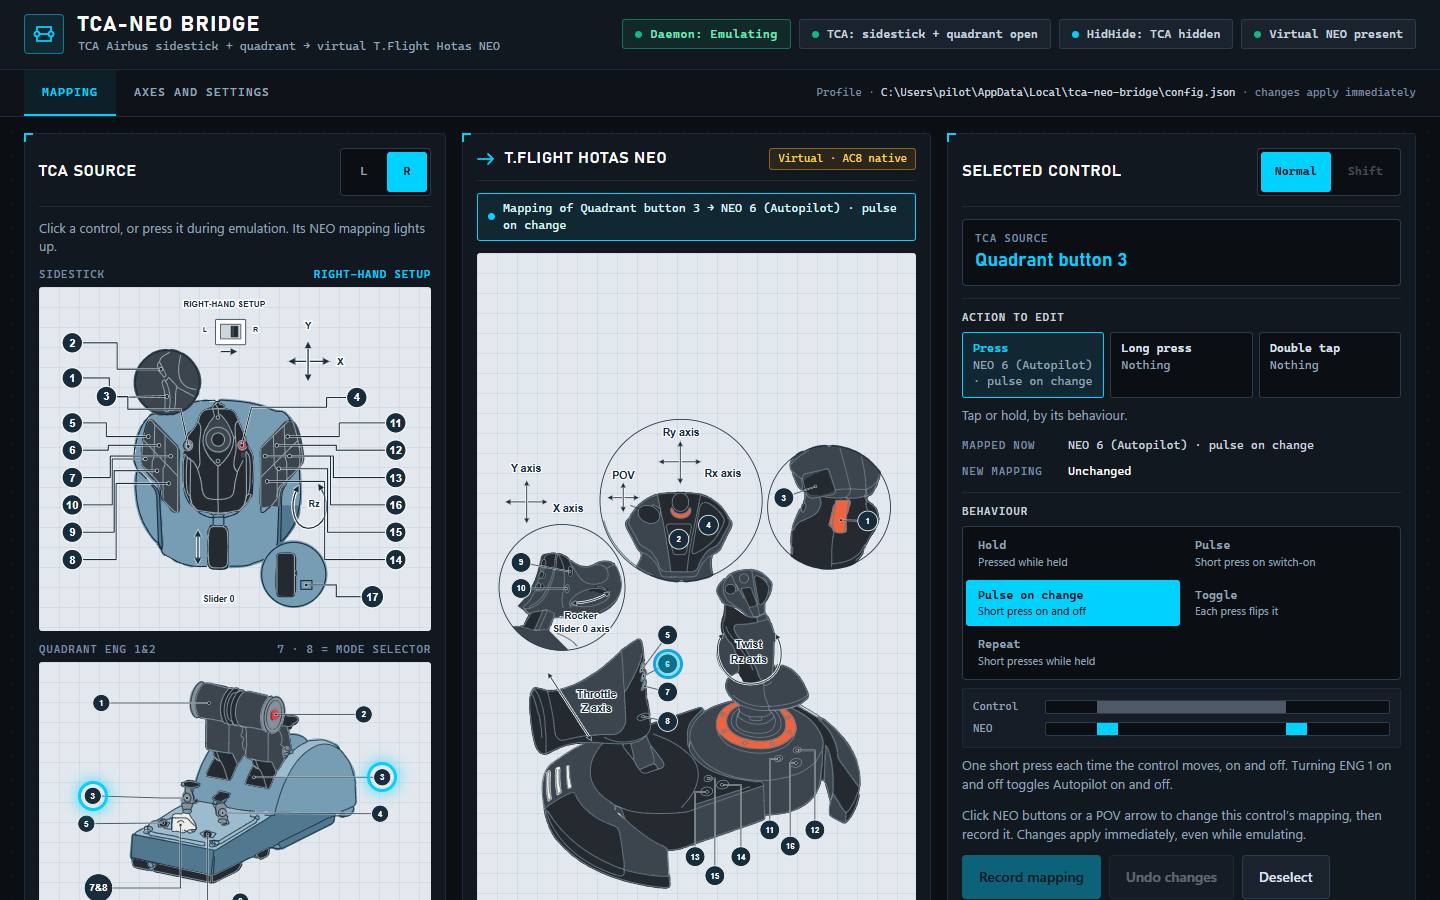
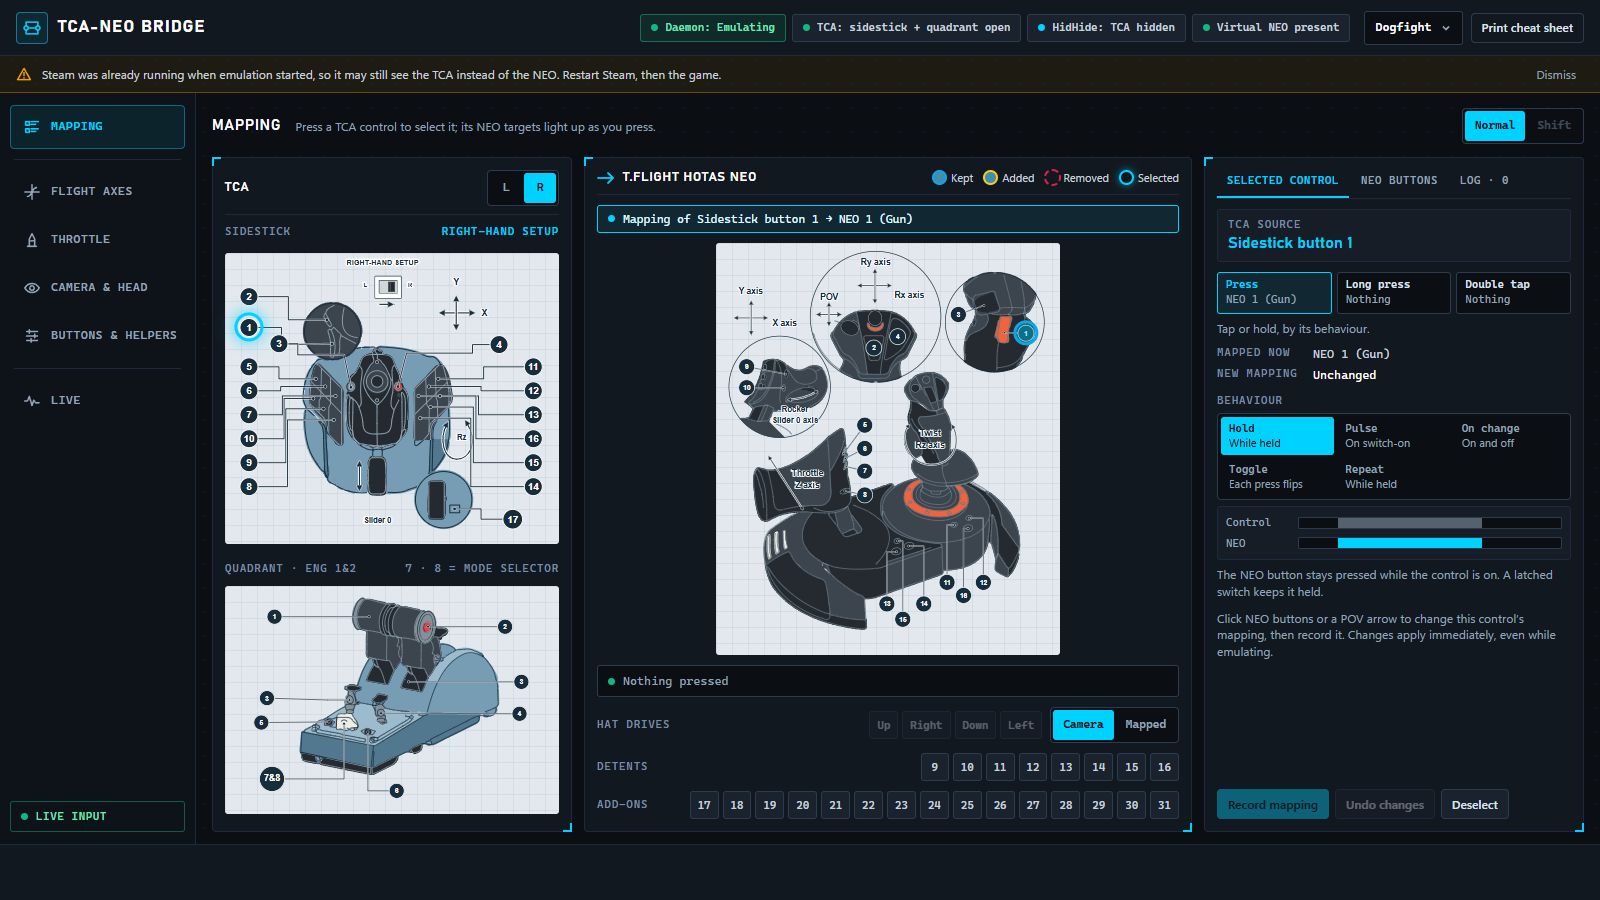
docs(readme): Describe the redesigned configuration page
Replace the tab descriptions with the rail pages and live previews,
and refresh the mapping, settings and live screenshots.

diff --git a/README.md b/README.md
@@ -65,54 +65,60 @@ The icon's badge shows the emulation status: a gray hollow circle when idle, a g
 | --- | --- |
 | Start emulation / Stop emulation | Hide the TCA devices and create the virtual NEO, or undo both. |
 | Configure… | Opens the configuration page in your browser (local only). Double-clicking the icon does the same. |
-| Pause input / Resume input | While emulating, releases every control and sends a neutral NEO until resumed. The tooltip shows *input paused*. A TCA button combo can do the same (see *Axes and settings*). |
+| Pause input / Resume input | While emulating, releases every control and sends a neutral NEO until resumed. The tooltip shows *input paused*. A TCA button combo can do the same (see *Buttons & helpers*). |
 | Profile ▸ | Appears once a profile is saved under a name. Choosing one makes it the active profile, even mid-flight; a balloon confirms it. The active one is checked. |
 | Install driver… / Reinstall driver… | Installs the driver, or replaces it with a freshly signed copy. Available while not emulating. |
 | Quit | Stops emulation and exits. |
 
-### Mapping tab
+### The configuration page
 
-![Mapping tab: quadrant button 3 (ENG 1) selected, its Autopilot mapping set to pulse on change](docs/images/mapping.png)
+The page fits one desktop window (1280 × 800 and up) without scrolling. The header shows the daemon status and, while emulating, whether the TCA is open, whether HidHide hides it and whether the virtual NEO exists, next to the **Profile** menu and **Print cheat sheet**. A rail on the left switches between six pages: **Mapping**, **Flight axes**, **Throttle**, **Camera & head**, **Buttons & helpers** and **Live**. On the four settings pages, a bar at the bottom holds **Try in game**, **Discard**, **Reset to defaults** and **Save settings**.
 
-The header shows the daemon status and, while emulating, whether the TCA is open, whether HidHide hides it and whether the virtual NEO exists. The left panel shows the TCA sidestick (switch **L / R** for a left- or right-hand setup) and quadrant, the middle one a T.Flight Hotas NEO with its numbered buttons and POV hat. Below them, a table lists NEO buttons 1–15 with their ACE COMBAT 8 actions and the TCA controls that feed each one.
+**Every preview is live.** While emulating, each page follows what you do on the TCA straight away, through your unsaved settings: the curve dot and meters follow the stick, the throttle needle the lever, the camera graph your hat hold, and the helper states and press timeline your buttons. Test controls appear only when emulation is stopped (*Start emulation to see your device*). The rail shows **Live input** or **Idle**.
+
+### Mapping
+
+![Mapping page: sidestick button 1 selected, its press mapped to NEO 1 (Gun)](docs/images/mapping.png)
+
+The left panel shows the TCA sidestick (switch **L / R** for a left- or right-hand setup) and quadrant, the middle one a T.Flight Hotas NEO with its numbered buttons and POV hat. The right panel has three tabs: **Selected control**, **NEO buttons** (NEO buttons 1–15 with their ACE COMBAT 8 actions and the TCA controls that feed each one, and the NEO axes) and **Log**.
 
 - **Click a TCA control,** or press it while emulating. Its current NEO targets light up.
 - **Click NEO buttons or POV arrows** to build its new mapping. Blue ring means kept, yellow ring means added, red dashed ring means removed. Then choose **Record mapping**. Changes apply immediately, even while emulating.
-- **With nothing selected,** clicking a NEO control or a row of the NEO button table highlights every TCA control that feeds it.
+- **With nothing selected,** clicking a NEO control or a row of the NEO buttons table highlights every TCA control that feeds it.
 - **Behaviour** sets how the selected control drives its NEO targets: **Hold** (pressed while held), **Pulse** (a short press when it switches on), **Pulse on change** (a short press each time it moves, on and off), **Toggle** (each press flips it) or **Repeat** (short presses again and again while held). A small timeline shows what the game receives. It is recorded with the mapping.
 - **Action to edit** picks what the NEO clicks change: the **Press**, a **Long press** (held for the long-press time: its targets are held instead of the press) or a **Double tap** (two taps within the double-tap window). Each tile shows its current mapping. With a long press or double tap set, a tap is sent as a short press once the control is released and the double-tap window has passed.
-- **Normal / Shift** switches the layer being mapped once a shift control is set (see *Axes and settings*). While the shift control is held, controls with a shift-layer mapping send it instead; the others keep their normal mapping.
-- **Under *Other TCA inputs*,** set the **sidestick hat** to drive either the **Camera** (the NEO mini-stick, the default) or **Mapped controls**. In Mapped mode, its four directions can be mapped like buttons, and the camera gets no input.
-- **Recorded corrections** keeps a log of every change you record.
+- **Normal / Shift** switches the layer being mapped once a shift control is set (see *Buttons & helpers*). While the shift control is held, controls with a shift-layer mapping send it instead; the others keep their normal mapping.
+- **Hat drives** sets the **sidestick hat** to drive either the **Camera** (the NEO mini-stick, the default) or **Mapped** controls. In Mapped mode, its four directions can be mapped like buttons, and the camera gets no input. The quadrant's detent states (9–16) and add-on inputs (17–31) sit below it.
+- **Log** keeps a record of every change you record.
 
-### Axes and settings tab
+### Settings pages
 
-![Axes and settings tab: the roll response curve with live stick input, and the throttle in Detents mode](docs/images/settings.png)
+![Flight axes page: the roll response curve following the live stick, with every axis raw and sent](docs/images/settings.png)
 
 | Setting | Meaning |
 | --- | --- |
-| Flight axes | Pick **Roll**, **Pitch** or **Yaw** and set its **deadzone** (travel ignored around centre), **full deflection at** (travel that already gives 100 %), **anti-deadzone** (the smallest output past the deadzone, to beat the game's own) and **curve** (positive softens the centre for fine aim, negative sharpens it). **Copy** applies them to the other axes. |
-| Live preview | The curve graph redraws as you drag. A dot shows where the input lands and the readouts give stick in and NEO out. Use **Test input** to try settings without hardware, or **Live stick** while emulating. A strip shows all three axes at once. |
+| Flight axes | On **Flight axes**, pick **Roll**, **Pitch** or **Yaw** and set its **deadzone** (travel ignored around centre), **full deflection at** (travel that already gives 100 %), **anti-deadzone** (the smallest output past the deadzone, to beat the game's own) and **curve** (positive softens the centre for fine aim, negative sharpens it). **Copy** applies them to the other axes. |
+| Live preview | The curve graph redraws as you drag. A dot shows where the stick lands and the readouts give stick in and NEO out. **All axes** shows each flight axis raw and as sent. Without emulation, drag the test input instead. |
 | Smoothing | Per axis, filters jitter; the delay it adds is shown in milliseconds. |
-| Camera | **Strength** of the hat on the NEO mini-stick, and a **Ramp** time to reach it (0 is instant), with a graph of the camera output while the hat is held. **Full strength after a long press** lets a held hat look all the way round. **Hat + spare lever** lets the quadrant lever that is not the throttle pan the camera; the hat wins while pressed. |
+| Camera | **Strength** of the hat on the NEO mini-stick, and a **Ramp** time to reach it (0 is instant), with a graph of the camera output while the hat is held; your current hold is drawn on it as it happens. **Full strength after a long press** lets a held hat look all the way round. **Hat + spare lever** lets the quadrant lever that is not the throttle pan the camera; the hat wins while pressed. |
 | Yaw source | **Twist** (the default), **Off**, or **Lever difference**: pushing one quadrant lever ahead of the other yaws towards the back lever, and the throttle follows the average of both levers. |
-| Timing | Long-press time, double-tap window, repeat interval and pulse length, in milliseconds. |
-| Throttle | **Linear** maps lever travel straight to the NEO throttle. **Detents** follows ACE COMBAT: below **Idle** brakes fully, within **Cruise band** of **CL** cruises, from **Boost** boosts fully, with smooth ramps in between. While emulating, put the lever in each detent and choose **Capture lever**. The sidestick slider stays linear. |
-| Quadrant throttle lever | Left or right lever. It shares the throttle with the sidestick slider; the last one moved takes over. |
+| Timing | Long-press time, double-tap window, repeat interval and pulse length, in milliseconds. A timeline below draws your last few seconds of presses and reads each as a tap, long press or double tap against these times. |
+| Throttle | **Linear** maps lever travel straight to the NEO throttle. **Detents** follows ACE COMBAT: below **Idle** brakes fully, within **Cruise band** of **CL** cruises, from **Boost** boosts fully, with smooth ramps in between. While emulating, put the lever in each detent and choose **Capture**. The sidestick slider stays linear. |
+| Throttle lever | Left or right quadrant lever. It shares the throttle with the sidestick slider; the last one moved takes over. |
 | Invert | Per axis. |
-| Precision aiming | While the chosen control is held, roll, pitch and yaw are scaled down (50 % by default) for fine aim. Choose **Press a control…**, then press it on the TCA. |
+| Precision aiming | While the chosen control is held, roll, pitch and yaw are scaled down (50 % by default) for fine aim. Choose **Press a control…**, then press it on the TCA. The state chip lights while it is held. |
 | Safe start | On by default. When emulation starts or input returns after a dropout, the throttle stays at centre until the active lever or slider reaches centre or moves across it. A lever left fully forward or at idle never launches you at full power or full brake. |
 | Shift layer | While the chosen control is held, other controls use their Shift-layer mappings. Its own mapping is not sent while it is the shift control. |
-| Pause input | Up to four controls pressed together pause and resume input, like the tray item. Choose **Record combo…**, press them, then **Done**. |
+| Pause input | Up to four controls pressed together pause and resume input, like the tray item. Choose **Record combo…**, press them, then **Done**. Held combo controls light up as you press them. |
 | Shared levers | Split-lever High-G, the camera lever and lever-difference yaw each use the quadrant levers, so only one can be on: turning one on turns the others off and says so. |
-| High-G from split levers | Thresholds are lever travel: 0 % at idle, 100 % fully forward. While one quadrant lever is at or above the *forward* threshold and the other at or below the *back* threshold, NEO 5 (High-G) is held. The throttle follows the forward lever, with the same response. While emulating, live bars show both lever positions against the saved thresholds. |
-| Try in game | Runs your unsaved settings in the running emulation without saving them; an amber *Previewing unsaved settings* pill shows while it's on. **Save settings** keeps them; **Discard changes**, leaving the tab or stopping emulation goes back to the saved profile. |
+| High-G from split levers | Thresholds are lever travel: 0 % at idle, 100 % fully forward. While one quadrant lever is at or above the *forward* threshold and the other at or below the *back* threshold, NEO 5 (High-G) is held. The throttle follows the forward lever, with the same response. While emulating, live bars show both lever positions against the thresholds as you set them, before saving. |
+| Try in game | Runs your unsaved settings in the running emulation without saving them; an amber *Previewing unsaved settings* pill shows while it's on. **Save settings** keeps them; **Discard**, leaving the settings pages or stopping emulation goes back to the saved profile. |
 
 Profiles saved by version 0.2.x are upgraded when loaded: their single deadzone becomes each axis's deadzone, and every control keeps holding its NEO button as before.
 
 ### Head tracking
 
-Under *Axes and settings*, **Head tracking** lets you look around with your head through [OpenTrack](https://github.com/opentrack/opentrack) (TrackIR, a webcam or a phone). In OpenTrack, set the output to **UDP over network**, remote IP `127.0.0.1` and the port shown (4242 by default), and start tracking. The bridge listens on this computer only. Head yaw and pitch move the NEO camera through their own deadzone and curve, with full deflection at the look ranges you set; invert either if it moves the wrong way. The hat still works and wins while pressed, and without OpenTrack data for the fall-back time the camera returns to the hat. The status line shows whether data arrives. The port and turning it on or off take effect when emulation starts.
+On **Camera & head**, **Head tracking** lets you look around with your head through [OpenTrack](https://github.com/opentrack/opentrack) (TrackIR, a webcam or a phone). In OpenTrack, set the output to **UDP over network**, remote IP `127.0.0.1` and the port shown (4242 by default), and start tracking. The bridge listens on this computer only. Head yaw and pitch move the NEO camera through their own deadzone and curve, with full deflection at the look ranges you set; invert either if it moves the wrong way. The hat still works and wins while pressed, and without OpenTrack data for the fall-back time the camera returns to the hat. The status line shows whether data arrives. The port and turning it on or off take effect when emulation starts.
 
 ### If the TCA disconnects
 
@@ -120,23 +126,23 @@ The virtual NEO stays, so the game keeps its controller. Every control is releas
 
 ### Launch warnings
 
-When emulation starts, the bridge checks the launch order and warns, without changing anything, if Steam was already running or Steam Input is on for ACE COMBAT 8. The warnings appear as tray balloons and as a banner on the configuration page.
+When emulation starts, the bridge checks the launch order and warns, without changing anything, if Steam was already running or Steam Input is on for ACE COMBAT 8. The warnings appear as tray balloons and as a strip under the header of the configuration page, which **Dismiss** hides until the warnings change.
 
-### Live tab
+### Live
 
-![Live tab: raw TCA input next to what the NEO receives, with the profile menu open](docs/images/live.png)
+![Live page: raw TCA input next to what the NEO receives, the bridge state and the NEO buttons](docs/images/live.png)
 
-While emulating, the **Live** tab shows every axis as the raw TCA input above what the NEO receives, so you can see the effect of your curves, detents and camera settings in flight. It also shows the bridge state (throttle armed or waiting for safe start, precision, shift, paused, preview), the TCA controls being pressed, the 15 NEO buttons lit as they are sent, and the POV.
+While emulating, the **Live** page shows every axis as the raw TCA input above what the NEO receives, so you can see the effect of your curves, detents and camera settings in flight. It also shows the bridge state (throttle armed or waiting for safe start, precision, shift, paused, preview), the TCA controls being pressed, the 15 NEO buttons lit as they are sent, and the POV.
 
 ### Profiles and cheat sheet
 
-The **Profile** menu in the tab bar lists your saved profiles. Choose one to switch to it; the current settings must be saved or discarded first.
+The **Profile** menu in the header lists your saved profiles. Choose one to switch to it; the current settings must be saved or discarded first.
 
 - **Save as** stores the saved settings under a name (letters, digits, spaces, `_` and `-`) and makes it the active profile.
 - **Import…** loads a profile JSON file someone shared. The bridge checks it, and upgrades older ones, before it becomes your settings; save it under a name to keep it.
 - **Export** downloads the saved settings as a JSON file.
 - **Delete** removes the active profile after a second click. The settings themselves stay.
-- A **Next profile** combo under *Control helpers* cycles through the saved profiles in name order while flying, and the tray has a **Profile** submenu.
+- A **Next profile** combo on *Buttons & helpers* cycles through the saved profiles in name order while flying, and the tray has a **Profile** submenu.
 
 **Print cheat sheet** prints a light A4 page from the saved profile: every mapped control with its press, long press, double tap and shift-layer action, the axes, the helpers and the timings.
 
@@ -154,7 +160,7 @@ The **Profile** menu in the tab bar lists your saved profiles. Choose one to swi
 | Sidestick hat | Rx/Ry mini-stick | Camera |
 | Levers split (one ≥ 75 %, other ≤ 25 %) | 5 | High-G |
 
-The ENG switches and the mode selector stay in position, so they don't hold their NEO buttons. The ENG switches **pulse on change**: turning one on, and off again, each sends one short Autopilot press. The mode selector **pulses** once when it moves into position 7 or 8, giving one burst of flares rather than a stream. Change this with **Behaviour** on the Mapping tab. **Reset everything to defaults** on the settings tab restores this table, with safe start on and a linear throttle.
+The ENG switches and the mode selector stay in position, so they don't hold their NEO buttons. The ENG switches **pulse on change**: turning one on, and off again, each sends one short Autopilot press. The mode selector **pulses** once when it moves into position 7 or 8, giving one burst of flares rather than a stream. Change this with **Behaviour** on the Mapping page. **Reset to defaults** on a settings page restores this table, with safe start on and a linear throttle.
 
 ## Files and data
 
@@ -177,7 +183,7 @@ Run `neo-daemon.exe --data <folder>` to use another folder.
 | "Creating the virtual NEO requires administrator rights" | Restart `neo-daemon.exe` with **Run as administrator**. |
 | HidHide errors | Install HidHide, close its configuration client, remove Steam from its application list, turn *inverse application cloak* off, reconnect both TCA devices. |
 | "Connect exactly one supported TCA sidestick and one Quadrant" | Plug in both devices, and only one of each. Using another Thrustmaster HOTAS? See [Another Thrustmaster HOTAS?](#another-thrustmaster-hotas) |
-| A control is "stuck" | A quadrant switch set to **Hold** is resting in an active position. Set its **Behaviour** to **Pulse on change** on the Mapping tab; see *Default mapping*. |
+| A control is "stuck" | A quadrant switch set to **Hold** is resting in an active position. Set its **Behaviour** to **Pulse on change** on the Mapping page; see *Default mapping*. |
 | The throttle does nothing after starting | Safe start is waiting: move the throttle lever (or the sidestick slider) to centre once. |
 | The aircraft is too twitchy or too sluggish | Tune that axis's curve and deadzone on *Axes and settings*. Try them with **Try in game**, then save. |
 | The game sees the TCA devices as well | Start emulation **before** starting Steam and the game. The page warns when Steam was already running. |
